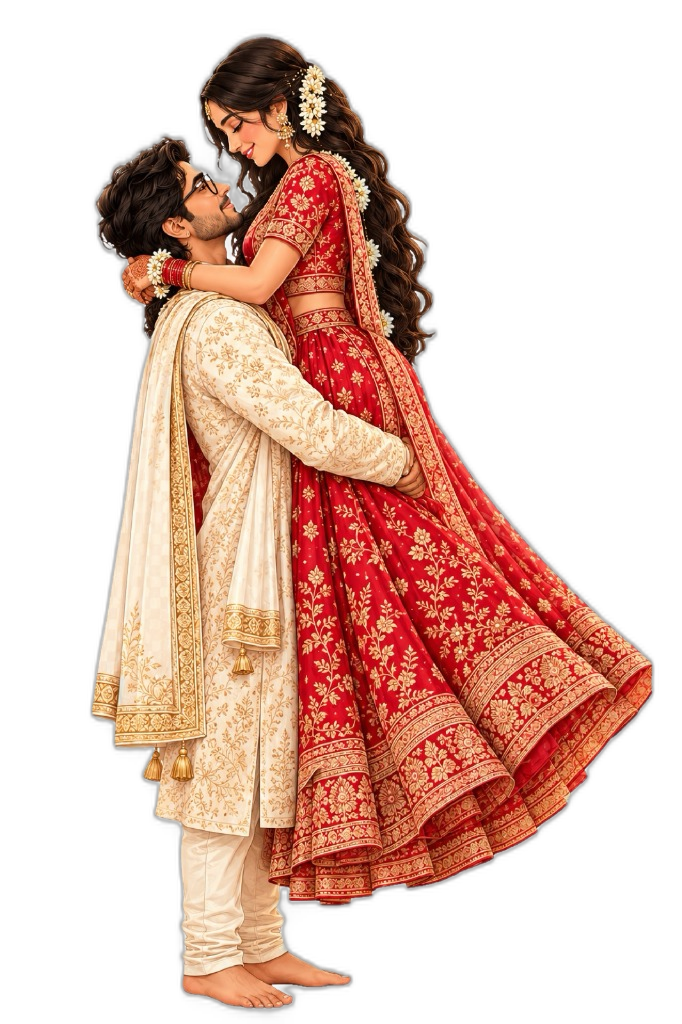
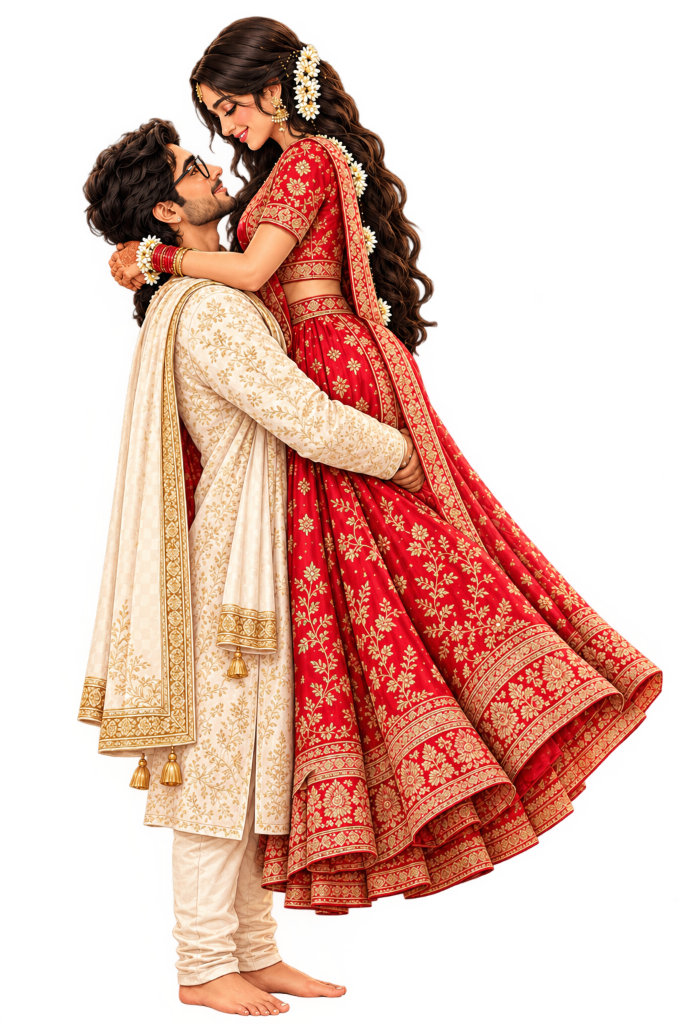
Replace couple image with high-res PNG and add real animated hanging flowers

diff --git a/src/main.tsx b/src/main.tsx
@@ -206,6 +206,193 @@ function ScratchDate(){
   );
 }
 
+// 3) Real Looking Hanging Flowers Canopy across top of 1st Page with Slow Breeze Sway Animation
+function RealHangingFlowers(){
+  return (
+    <div className="real-hanging-canopy" aria-hidden="true">
+      {/* Top draped foliage swag connecting the garland anchors */}
+      <svg className="canopy-top-foliage" viewBox="0 0 1200 48" preserveAspectRatio="none">
+        <defs>
+          <linearGradient id="foliageGrad" x1="0%" y1="0%" x2="0%" y2="100%">
+            <stop offset="0%" stopColor="#1e3814" stopOpacity="0.95" />
+            <stop offset="60%" stopColor="#2d521d" stopOpacity="0.85" />
+            <stop offset="100%" stopColor="#437628" stopOpacity="0" />
+          </linearGradient>
+          <linearGradient id="goldBellGrad" x1="0%" y1="0%" x2="100%" y2="0%">
+            <stop offset="0%" stopColor="#966c28" />
+            <stop offset="35%" stopColor="#ffd875" />
+            <stop offset="65%" stopColor="#e5b144" />
+            <stop offset="100%" stopColor="#7a541a" />
+          </linearGradient>
+          <radialGradient id="jasmineBudGrad" cx="35%" cy="30%" r="70%">
+            <stop offset="0%" stopColor="#ffffff" />
+            <stop offset="55%" stopColor="#fbf6eb" />
+            <stop offset="85%" stopColor="#eedcb9" />
+            <stop offset="100%" stopColor="#d4be95" />
+          </radialGradient>
+          <linearGradient id="lotusPetalGrad" x1="0%" y1="0%" x2="0%" y2="100%">
+            <stop offset="0%" stopColor="#ffb3c6" />
+            <stop offset="45%" stopColor="#f84d7d" />
+            <stop offset="100%" stopColor="#b41643" />
+          </linearGradient>
+          <linearGradient id="bougainGrad" x1="0%" y1="0%" x2="100%" y2="100%">
+            <stop offset="0%" stopColor="#ff7096" />
+            <stop offset="50%" stopColor="#e91e63" />
+            <stop offset="100%" stopColor="#9c0936" />
+          </linearGradient>
+        </defs>
+        <path d="M0,0 Q150,32 300,10 Q450,35 600,8 Q750,35 900,10 Q1050,32 1200,0 L1200,0 L0,0 Z" fill="url(#foliageGrad)" />
+      </svg>
+
+      {/* Strand 0: Far-Left Cascading Bougainvillea & Golden Temple Bell */}
+      <div className="strand-item strand-far-left">
+        <svg width="42" height="230" viewBox="0 0 42 230" fill="none">
+          <path d="M21,0 Q15,40 23,80 Q29,120 18,160 Q13,185 21,205" stroke="#335822" strokeWidth="2.4" strokeLinecap="round" />
+          <ellipse cx="14" cy="22" rx="7" ry="4" transform="rotate(-30 14 22)" fill="#3d6828" />
+          <ellipse cx="28" cy="35" rx="8" ry="4" transform="rotate(25 28 35)" fill="#4d8232" />
+          <path d="M21,48 C16,42 11,48 16,56 C11,62 18,66 21,60 C24,66 31,62 26,56 C31,48 26,42 21,48 Z" fill="url(#bougainGrad)" />
+          <ellipse cx="12" cy="76" rx="7" ry="4" transform="rotate(-20 12 76)" fill="#3d6828" />
+          <ellipse cx="30" cy="94" rx="8" ry="4.5" transform="rotate(35 30 94)" fill="#4d8232" />
+          <path d="M21,108 C16,102 10,108 15,116 C10,123 18,127 21,121 C24,127 32,123 27,116 C32,108 26,102 21,108 Z" fill="url(#bougainGrad)" />
+          <ellipse cx="12" cy="142" rx="7" ry="4" transform="rotate(-25 12 142)" fill="#3d6828" />
+          <path d="M20,165 C15,160 10,166 15,173 C10,180 17,184 20,178 C23,184 30,180 25,173 C30,166 25,160 20,165 Z" fill="url(#bougainGrad)" />
+          <path d="M14,204 L28,204 C28,204 27,215 29,219 L13,219 C15,215 14,204 14,204 Z" fill="url(#goldBellGrad)" />
+          <ellipse cx="21" cy="219" rx="8.5" ry="2.5" fill="url(#goldBellGrad)" />
+          <circle cx="21" cy="223" r="2.2" fill="#d4a34b" />
+        </svg>
+      </div>
+
+      {/* Strand 1: Left Mogra/Jasmine Pearl Garland with Lotus Blossom */}
+      <div className="strand-item strand-left-mid">
+        <svg width="34" height="185" viewBox="0 0 34 185" fill="none">
+          <line x1="17" y1="0" x2="17" y2="152" stroke="#486e32" strokeWidth="1.5" />
+          {[12, 25, 38, 51, 64, 77, 90, 103, 116, 129, 142].map(y => (
+            <g key={y}>
+              <circle cx="17" cy={y} r="5.8" fill="url(#jasmineBudGrad)" />
+              <ellipse cx="15.5" cy={y - 1.5} rx="2" ry="1.2" fill="#ffffff" opacity="0.8" />
+              <path d={`M14,${y+4} L17,${y+6} L20,${y+4}`} stroke="#3d6526" strokeWidth="1.2" fill="none" />
+            </g>
+          ))}
+          <g transform="translate(17, 164)">
+            <path d="M0,0 C-12,-8 -13,-18 0,-21 C13,-18 12,-8 0,0 Z" fill="url(#lotusPetalGrad)" />
+            <path d="M-2,-2 C-15,-6 -8,-16 0,-18" stroke="#fce4ec" strokeWidth="0.8" fill="none" />
+            <path d="M2,-2 C15,-6 8,-16 0,-18" stroke="#fce4ec" strokeWidth="0.8" fill="none" />
+            <circle cx="0" cy="-6" r="2.5" fill="#ffd54f" />
+          </g>
+        </svg>
+      </div>
+
+      {/* Strand 2: Center-Left Jasmine Garland */}
+      <div className="strand-item strand-center-left">
+        <svg width="28" height="130" viewBox="0 0 28 130" fill="none">
+          <line x1="14" y1="0" x2="14" y2="110" stroke="#486e32" strokeWidth="1.4" />
+          {[10, 23, 36, 49, 62, 75, 88, 101].map(y => (
+            <g key={y}>
+              <circle cx="14" cy={y} r="5.2" fill="url(#jasmineBudGrad)" />
+              <ellipse cx="12.5" cy={y - 1.2} rx="1.8" ry="1" fill="#ffffff" opacity="0.8" />
+            </g>
+          ))}
+          <path d="M14,124 C6,118 7,109 14,107 C21,109 22,118 14,124 Z" fill="url(#lotusPetalGrad)" />
+        </svg>
+      </div>
+
+      {/* Strand 3: High Arch Drape Left */}
+      <div className="strand-item strand-inner-left">
+        <svg width="24" height="90" viewBox="0 0 24 90" fill="none">
+          <line x1="12" y1="0" x2="12" y2="76" stroke="#486e32" strokeWidth="1.2" />
+          {[10, 22, 34, 46, 58, 70].map(y => (
+            <circle key={y} cx="12" cy={y} r="4.8" fill="url(#jasmineBudGrad)" />
+          ))}
+          <circle cx="12" cy="80" r="3" fill="url(#goldBellGrad)" />
+        </svg>
+      </div>
+
+      {/* Strand 4: Center Lotus & Brass Bell Pendant directly under arch apex */}
+      <div className="strand-item strand-apex-center">
+        <svg width="38" height="150" viewBox="0 0 38 150" fill="none">
+          <line x1="19" y1="0" x2="19" y2="92" stroke="#486e32" strokeWidth="1.6" />
+          {[10, 23, 36, 49, 62, 75].map(y => (
+            <g key={y}>
+              <circle cx="19" cy={y} r="5.6" fill="url(#jasmineBudGrad)" />
+              <ellipse cx="17.5" cy={y - 1.3} rx="1.9" ry="1.1" fill="#ffffff" opacity="0.85" />
+            </g>
+          ))}
+          <g transform="translate(19, 102)">
+            <path d="M0,0 C-14,-9 -14,-22 0,-24 C14,-22 14,-9 0,0 Z" fill="url(#lotusPetalGrad)" />
+            <circle cx="0" cy="-7" r="2.8" fill="#ffd54f" />
+          </g>
+          <path d="M12,122 L26,122 C26,122 25,133 27,137 L11,137 C13,133 12,122 12,122 Z" fill="url(#goldBellGrad)" />
+          <ellipse cx="19" cy="137" rx="8" ry="2.2" fill="url(#goldBellGrad)" />
+          <circle cx="19" cy="141" r="2" fill="#d4a34b" />
+        </svg>
+      </div>
+
+      {/* Strand 5: High Arch Drape Right */}
+      <div className="strand-item strand-inner-right">
+        <svg width="24" height="90" viewBox="0 0 24 90" fill="none">
+          <line x1="12" y1="0" x2="12" y2="76" stroke="#486e32" strokeWidth="1.2" />
+          {[10, 22, 34, 46, 58, 70].map(y => (
+            <circle key={y} cx="12" cy={y} r="4.8" fill="url(#jasmineBudGrad)" />
+          ))}
+          <circle cx="12" cy="80" r="3" fill="url(#goldBellGrad)" />
+        </svg>
+      </div>
+
+      {/* Strand 6: Center-Right Jasmine Garland */}
+      <div className="strand-item strand-center-right">
+        <svg width="28" height="130" viewBox="0 0 28 130" fill="none">
+          <line x1="14" y1="0" x2="14" y2="110" stroke="#486e32" strokeWidth="1.4" />
+          {[10, 23, 36, 49, 62, 75, 88, 101].map(y => (
+            <g key={y}>
+              <circle cx="14" cy={y} r="5.2" fill="url(#jasmineBudGrad)" />
+              <ellipse cx="12.5" cy={y - 1.2} rx="1.8" ry="1" fill="#ffffff" opacity="0.8" />
+            </g>
+          ))}
+          <path d="M14,124 C6,118 7,109 14,107 C21,109 22,118 14,124 Z" fill="url(#lotusPetalGrad)" />
+        </svg>
+      </div>
+
+      {/* Strand 7: Right Mogra/Jasmine Pearl Garland with Lotus Blossom */}
+      <div className="strand-item strand-right-mid">
+        <svg width="34" height="185" viewBox="0 0 34 185" fill="none">
+          <line x1="17" y1="0" x2="17" y2="152" stroke="#486e32" strokeWidth="1.5" />
+          {[12, 25, 38, 51, 64, 77, 90, 103, 116, 129, 142].map(y => (
+            <g key={y}>
+              <circle cx="17" cy={y} r="5.8" fill="url(#jasmineBudGrad)" />
+              <ellipse cx="15.5" cy={y - 1.5} rx="2" ry="1.2" fill="#ffffff" opacity="0.8" />
+              <path d={`M14,${y+4} L17,${y+6} L20,${y+4}`} stroke="#3d6526" strokeWidth="1.2" fill="none" />
+            </g>
+          ))}
+          <g transform="translate(17, 164)">
+            <path d="M0,0 C-12,-8 -13,-18 0,-21 C13,-18 12,-8 0,0 Z" fill="url(#lotusPetalGrad)" />
+            <path d="M-2,-2 C-15,-6 -8,-16 0,-18" stroke="#fce4ec" strokeWidth="0.8" fill="none" />
+            <path d="M2,-2 C15,-6 8,-16 0,-18" stroke="#fce4ec" strokeWidth="0.8" fill="none" />
+            <circle cx="0" cy="-6" r="2.5" fill="#ffd54f" />
+          </g>
+        </svg>
+      </div>
+
+      {/* Strand 8: Far-Right Cascading Bougainvillea & Golden Temple Bell */}
+      <div className="strand-item strand-far-right">
+        <svg width="42" height="230" viewBox="0 0 42 230" fill="none">
+          <path d="M21,0 Q27,40 19,80 Q13,120 24,160 Q29,185 21,205" stroke="#335822" strokeWidth="2.4" strokeLinecap="round" />
+          <ellipse cx="28" cy="22" rx="7" ry="4" transform="rotate(30 28 22)" fill="#3d6828" />
+          <ellipse cx="14" cy="35" rx="8" ry="4" transform="rotate(-25 14 35)" fill="#4d8232" />
+          <path d="M21,48 C26,42 31,48 26,56 C31,62 24,66 21,60 C18,66 11,62 16,56 C11,48 16,42 21,48 Z" fill="url(#bougainGrad)" />
+          <ellipse cx="30" cy="76" rx="7" ry="4" transform="rotate(20 30 76)" fill="#3d6828" />
+          <ellipse cx="12" cy="94" rx="8" ry="4.5" transform="rotate(-35 12 94)" fill="#4d8232" />
+          <path d="M21,108 C26,102 32,108 27,116 C32,123 24,127 21,121 C18,127 10,123 15,116 C10,108 16,102 21,108 Z" fill="url(#bougainGrad)" />
+          <ellipse cx="30" cy="142" rx="7" ry="4" transform="rotate(25 30 142)" fill="#3d6828" />
+          <path d="M22,165 C27,160 32,166 27,173 C32,180 25,184 22,178 C19,184 12,180 17,173 C12,166 17,160 22,165 Z" fill="url(#bougainGrad)" />
+          <path d="M14,204 L28,204 C28,204 27,215 29,219 L13,219 C15,215 14,204 14,204 Z" fill="url(#goldBellGrad)" />
+          <ellipse cx="21" cy="219" rx="8.5" ry="2.5" fill="url(#goldBellGrad)" />
+          <circle cx="21" cy="223" r="2.2" fill="#d4a34b" />
+        </svg>
+      </div>
+    </div>
+  );
+}
+
 // 1) Cinematic Opener: Clicking plays "vide.mp4", ending transitions into 1st uploaded entrance image
 function RoyalVideoWelcome({onEnter}:{onEnter:()=>void}){
   const [isPlaying, setIsPlaying] = useState(false);
@@ -604,11 +791,8 @@ function App(){
         <div className="hero-mandap-backdrop" />
         <div className="hero-mandap-overlay" />
 
-        <img
-          src="/assets/garland-top.webp"
-          alt=""
-          className="hero-top-garland"
-        />
+        {/* 3) Real Looking Hanging Flowers with gentle slow breeze animation */}
+        <RealHangingFlowers />
 
         {/* Falling floral petals floating across hero */}
         <div className="hero-petals-flow" aria-hidden="true">

diff --git a/src/styles.css b/src/styles.css
@@ -465,19 +465,99 @@ main {
   pointer-events: none;
 }
 
-/* Hanging floral garland at top of hero section */
-.hero-top-garland {
+/* 3) Real looking hanging flowers canopy across top of 1st page */
+.real-hanging-canopy {
   position: absolute;
   top: 0;
   left: 0;
   width: 100%;
-  max-height: 120px;
-  object-fit: cover;
-  object-position: top center;
-  z-index: 6;
+  height: clamp(170px, 28vh, 260px);
   pointer-events: none;
-  filter: drop-shadow(0 6px 14px rgba(0, 0, 0, 0.5));
-  animation: garlandSway 8s ease-in-out infinite alternate;
+  z-index: 6;
+  overflow: visible;
+}
+
+.canopy-top-foliage {
+  position: absolute;
+  top: 0;
+  left: 0;
+  width: 100%;
+  height: clamp(35px, 5.5vw, 52px);
+  filter: drop-shadow(0 3px 6px rgba(0, 0, 0, 0.45));
+}
+
+.strand-item {
+  position: absolute;
+  top: -2px;
+  transform-origin: top center;
+  filter: drop-shadow(0 5px 12px rgba(0, 0, 0, 0.45));
+  will-change: transform;
+}
+
+/* Precise horizontal anchor points across the top mandap arch */
+.strand-far-left {
+  left: 1.5%;
+  animation: floralSwayLeft 7.2s ease-in-out infinite alternate;
+}
+
+.strand-left-mid {
+  left: 13%;
+  animation: floralSwayRight 6.6s ease-in-out infinite alternate -1.4s;
+}
+
+.strand-center-left {
+  left: 26%;
+  animation: floralSwayLeft 5.9s ease-in-out infinite alternate -2.8s;
+}
+
+.strand-inner-left {
+  left: 38%;
+  animation: floralSwayRight 5.4s ease-in-out infinite alternate -0.8s;
+}
+
+.strand-apex-center {
+  left: 50%;
+  transform: translateX(-50%);
+  animation: floralSwayCenter 8.5s ease-in-out infinite alternate;
+}
+
+.strand-inner-right {
+  left: 62%;
+  animation: floralSwayLeft 5.5s ease-in-out infinite alternate -3.2s;
+}
+
+.strand-center-right {
+  left: 74%;
+  animation: floralSwayRight 6.1s ease-in-out infinite alternate -1.9s;
+}
+
+.strand-right-mid {
+  left: 87%;
+  animation: floralSwayLeft 6.8s ease-in-out infinite alternate -0.5s;
+}
+
+.strand-far-right {
+  right: 1.5%;
+  animation: floralSwayRight 7.4s ease-in-out infinite alternate -2.2s;
+}
+
+/* Gentle, organic physics-based pendulum sway in warm mountain breeze */
+@keyframes floralSwayLeft {
+  0% { transform: rotate(-3.2deg); }
+  50% { transform: rotate(0.6deg); }
+  100% { transform: rotate(2.8deg); }
+}
+
+@keyframes floralSwayRight {
+  0% { transform: rotate(3deg); }
+  50% { transform: rotate(-0.5deg); }
+  100% { transform: rotate(-2.7deg); }
+}
+
+@keyframes floralSwayCenter {
+  0% { transform: translateX(-50%) rotate(-1.5deg) translateY(0); }
+  50% { transform: translateX(-50%) rotate(1.2deg) translateY(1.5px); }
+  100% { transform: translateX(-50%) rotate(-1.5deg) translateY(0); }
 }
 
 /* Drifting rose petals across hero (matching petals in background image) */
